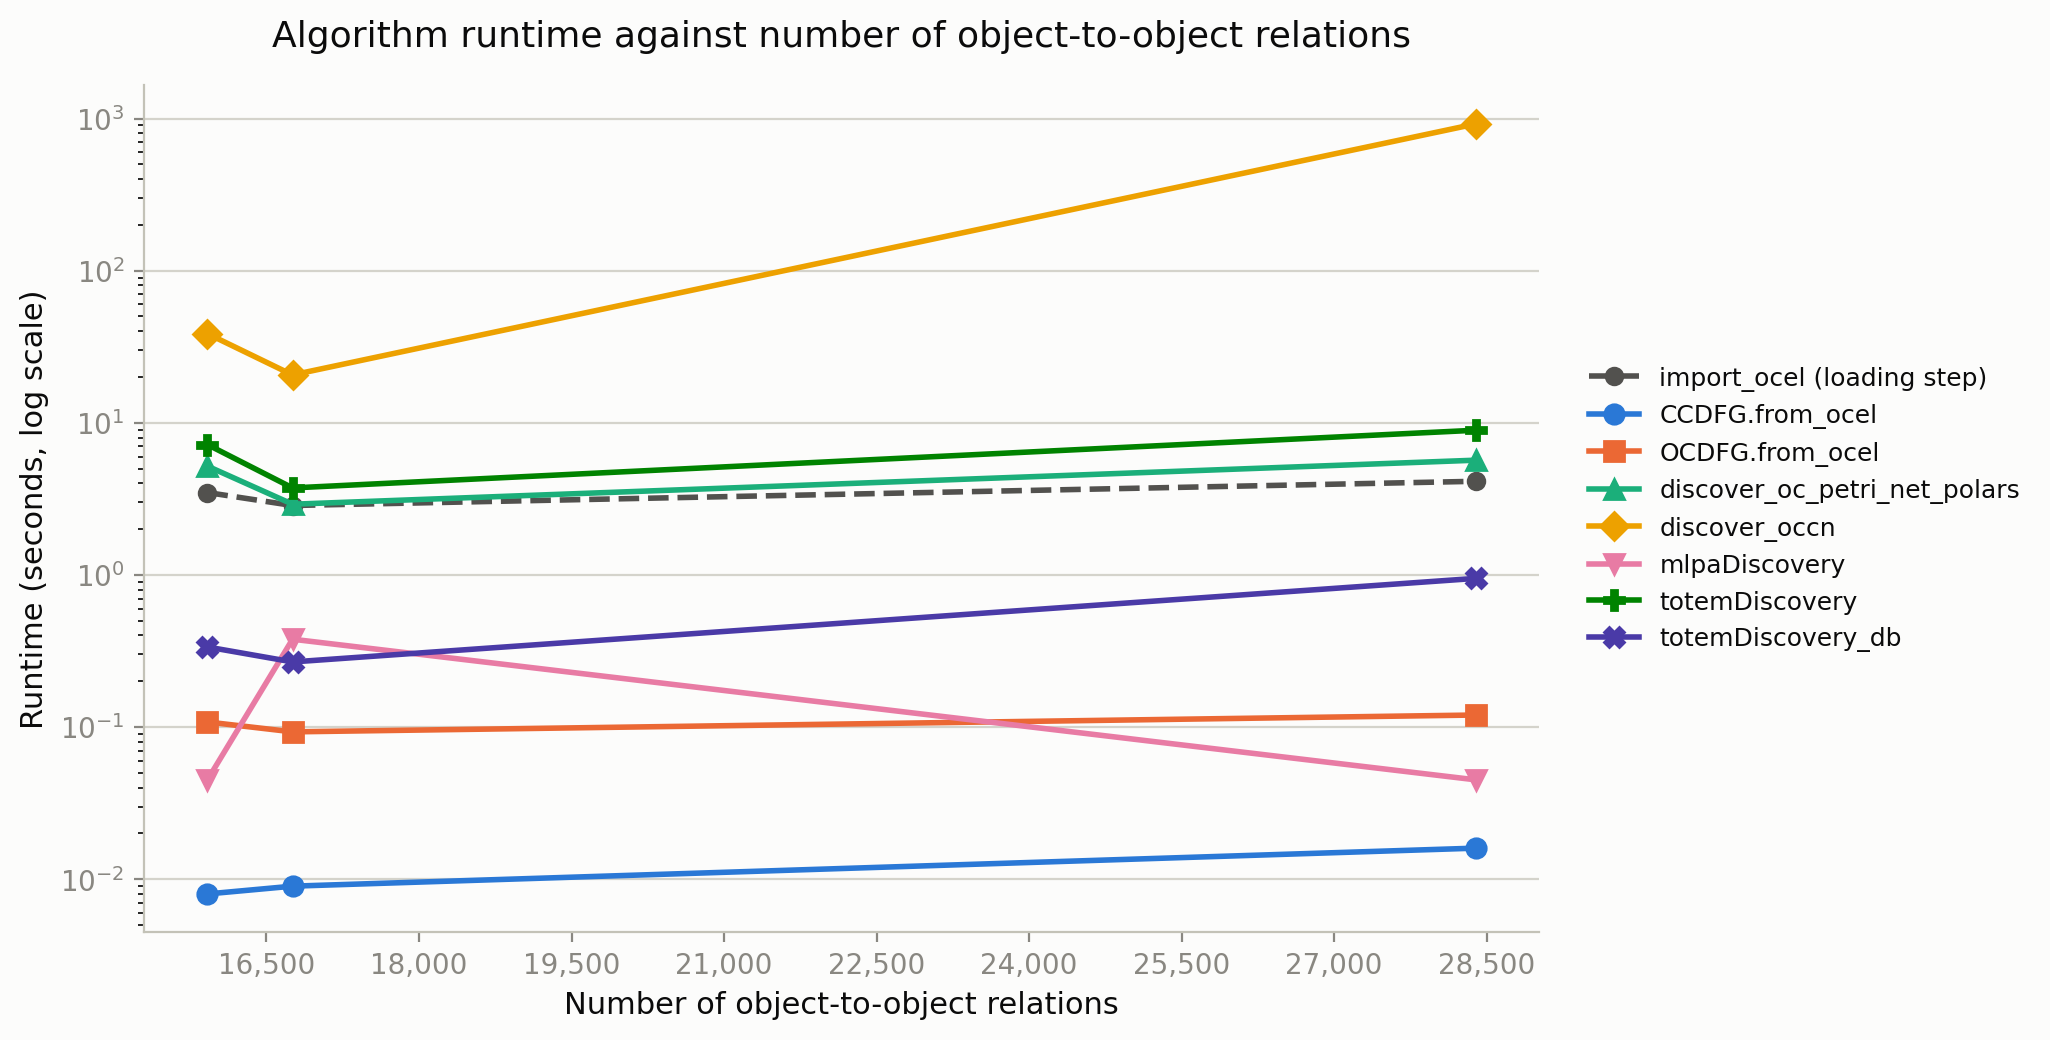
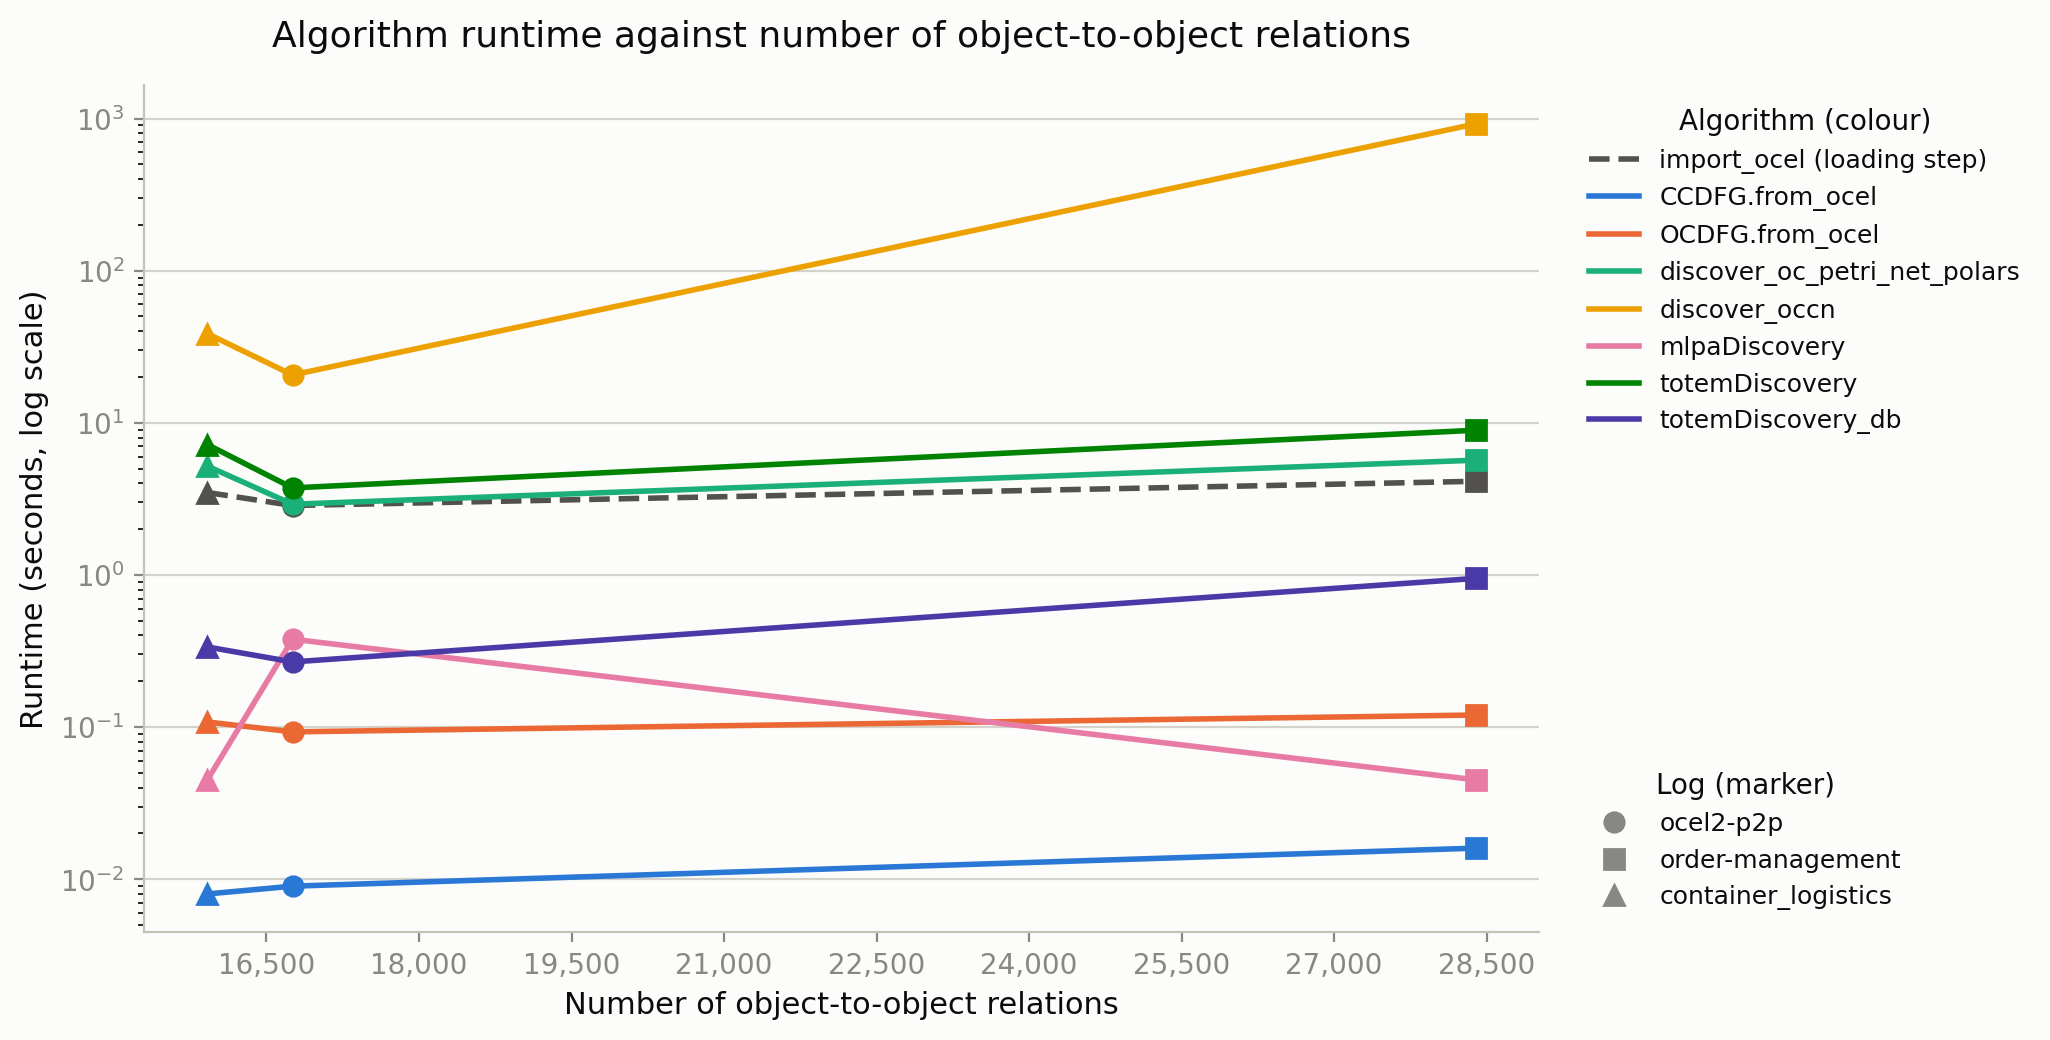
Use colour for the algorithm and marker shape for the log
Line colour already said which algorithm a line belonged to. The marker
shape repeated that, which was wasted. It now says which log each point
came from, so every point carries both facts.

This fixes a case that was unreadable before. In the object-types figure
two logs both have 7 object types, so their points sat on top of each
other with nothing to tell them apart. Now one is a circle and the other
a triangle.

Markers are assigned from the manifest order, the same rule as the
colours, so a log keeps its shape when a run covers only some logs and
two figures never disagree.

Two legends now, one per channel. Both sit outside the axes, and the one
attached by hand has to be named in savefig or the tight bounding box
cuts its text off.

diff --git a/totem_lib/evaluation/plots.py b/totem_lib/evaluation/plots.py
@@ -42,8 +42,9 @@ matplotlib.use("Agg")
 
 import matplotlib.pyplot as plt  # noqa: E402  (must come after use())
 from matplotlib import ticker  # noqa: E402
+from matplotlib.lines import Line2D  # noqa: E402
 
-from evaluation.datasets import SIZE_METRICS, LogStatistics  # noqa: E402
+from evaluation.datasets import LOGS, SIZE_METRICS, LogStatistics  # noqa: E402
 
 FIGURES_DIR = Path(__file__).resolve().parent.parent / "figures"
 FILE_PREFIX = "runtime_vs_"
@@ -128,26 +129,43 @@ def rows_from_csv(path: Path | str) -> list:
 # Shaping the data
 # ---------------------------------------------------------------------------
 
-def series_for(rows: Sequence, metric: str) -> dict[str, list[tuple[int, float]]]:
+def series_for(rows: Sequence, metric: str) -> dict[str, list[tuple[int, float, str]]]:
     """
-    Group the rows into one (x, y) list per algorithm, sorted by x.
+    Group the rows into one (x, y, log) list per algorithm, sorted by x.
+
+    The log name travels with each point because the marker shape identifies which
+    log a point came from.
 
     Rows without a time or without statistics are dropped: a failed algorithm has no
     runtime to plot, and drawing it as zero would be a lie. Sorting matters because the
     logs are not in the same order for every metric.
     """
-    series: dict[str, list[tuple[int, float]]] = {}
+    series: dict[str, list[tuple[int, float, str]]] = {}
     for row in rows:
         if row.statistics is None or row.result.elapsed_s is None:
             continue
-        point = (getattr(row.statistics, metric), row.result.elapsed_s)
+        point = (getattr(row.statistics, metric), row.result.elapsed_s, row.log)
         series.setdefault(row.algorithm, []).append(point)
     return {name: sorted(points) for name, points in series.items()}
 
 
-def _style_for(index: int) -> tuple[str, str]:
-    """Colour and marker for the n-th coloured algorithm."""
-    return SERIES_COLORS[index % len(SERIES_COLORS)], MARKERS[index % len(MARKERS)]
+def _logs_in(series: Mapping, baseline) -> set[str]:
+    """Every log that actually has a point in this figure."""
+    drawn = {log for points in series.values() for _, _, log in points}
+    return drawn | {log for _, _, log in (baseline or [])}
+
+
+def markers_for_logs(rows: Sequence) -> dict[str, str]:
+    """
+    Pick one marker shape per log.
+
+    Logs in the manifest keep the same shape whatever else a run covers, the same way
+    an algorithm keeps its colour. Any other log takes the next free shape.
+    """
+    known = [log.name for log in LOGS]
+    seen = [row.log for row in rows]
+    ordered = known + [name for name in dict.fromkeys(seen) if name not in known]
+    return {name: MARKERS[index % len(MARKERS)] for index, name in enumerate(ordered)}
 
 
 # ---------------------------------------------------------------------------
@@ -168,34 +186,37 @@ def plot_metric(rows: Sequence, metric: str, path: Path) -> Path:
     figure.patch.set_facecolor(SURFACE)
     axes.set_facecolor(SURFACE)
 
+    log_markers = markers_for_logs(rows)
+
+    def draw(points, color, label, linestyle, zorder):
+        """Draw one algorithm: a line in its colour, a marker per log."""
+        axes.plot(
+            [x for x, _, _ in points],
+            [y for _, y, _ in points],
+            color=color,
+            linewidth=2,
+            linestyle=linestyle,
+            label=label,
+            zorder=zorder,
+        )
+        for x, y, log in points:
+            axes.plot(
+                x, y,
+                color=color,
+                marker=log_markers.get(log, "o"),
+                markersize=7,
+                linestyle="none",
+                zorder=zorder + 1,
+            )
+
     # The baseline is drawn first so the coloured lines sit on top of it.
     baseline = series.pop(BASELINE_ALGORITHM, None)
     if baseline:
-        axes.plot(
-            [x for x, _ in baseline],
-            [y for _, y in baseline],
-            color=BASELINE_COLOR,
-            linewidth=2,
-            linestyle="--",
-            marker="o",
-            markersize=6,
-            label=BASELINE_ALGORITHM + " (loading step)",
-            zorder=2,
-        )
+        draw(baseline, BASELINE_COLOR, BASELINE_ALGORITHM + " (loading step)", "--", 2)
 
     for index, name in enumerate(sorted(series)):
-        color, marker = _style_for(index)
-        points = series[name]
-        axes.plot(
-            [x for x, _ in points],
-            [y for _, y in points],
-            color=color,
-            linewidth=2,
-            marker=marker,
-            markersize=7,
-            label=name,
-            zorder=3,
-        )
+        color = SERIES_COLORS[index % len(SERIES_COLORS)]
+        draw(series[name], color, name, "-", 4)
 
     axes.set_yscale("log")
     axes.set_xlabel(SIZE_METRICS[metric], color=TEXT, fontsize=11)
@@ -220,18 +241,47 @@ def plot_metric(rows: Sequence, metric: str, path: Path) -> Path:
     # Thousands separators, to match the results table.
     axes.xaxis.set_major_formatter(ticker.StrMethodFormatter("{x:,.0f}"))
 
-    # Legend outside the plot: nine entries would cover the lines. Skipped when a run
-    # produced nothing to draw, since an empty legend only warns.
-    if axes.get_lines():
-        axes.legend(
-            loc="center left",
-            bbox_to_anchor=(1.02, 0.5),
+    # Two legends outside the plot, one per channel: colour says which algorithm,
+    # marker shape says which log. Skipped when a run produced nothing to draw.
+    legends = []
+    handles, labels = axes.get_legend_handles_labels()
+    if handles:
+        algorithms = axes.legend(
+            handles, labels,
+            title="Algorithm (colour)",
+            loc="upper left",
+            bbox_to_anchor=(1.02, 1.0),
             frameon=False,
             fontsize=9,
             labelcolor=TEXT,
         )
+        algorithms.get_title().set_color(TEXT)
+        axes.add_artist(algorithms)
+        legends.append(algorithms)
 
-    figure.savefig(path, bbox_inches="tight", facecolor=SURFACE)
+        drawn_logs = [name for name in log_markers if name in _logs_in(series, baseline)]
+        log_handles = [
+            Line2D([], [], color=TICKS, marker=log_markers[name], linestyle="none",
+                   markersize=7, label=name)
+            for name in drawn_logs
+        ]
+        if log_handles:
+            logs_legend = axes.legend(
+                handles=log_handles,
+                title="Log (marker)",
+                loc="lower left",
+                bbox_to_anchor=(1.02, 0.0),
+                frameon=False,
+                fontsize=9,
+                labelcolor=TEXT,
+            )
+            logs_legend.get_title().set_color(TEXT)
+            legends.append(logs_legend)
+
+    # Legends sit outside the axes, and one of them is attached by hand, so they have
+    # to be named here or the tight bounding box cuts their text off.
+    figure.savefig(path, bbox_inches="tight", bbox_extra_artists=legends,
+                   facecolor=SURFACE)
     plt.close(figure)
     return path
 

diff --git a/totem_lib/tests/test_plots.py b/totem_lib/tests/test_plots.py
@@ -15,11 +15,12 @@ import pytest
 # No display in CI. Must be set before pyplot is imported anywhere.
 matplotlib.use("Agg")
 
-from evaluation.datasets import SIZE_METRICS, LogStatistics
+from evaluation.datasets import LOGS, SIZE_METRICS, LogStatistics
 from evaluation.export import write_csv
 from evaluation.harness import BenchmarkResult
 from evaluation.plots import (
     FILE_PREFIX,
+    markers_for_logs,
     plot_all,
     plot_metric,
     rows_from_csv,
@@ -84,8 +85,36 @@ def test_series_sorts_by_the_plotted_metric_not_by_row_order():
         _row(log="big-log", statistics=_stats(num_events=100, num_e2o_relations=500)),
         _row(log="small-log", statistics=_stats(num_events=200, num_e2o_relations=50)),
     ]
-    xs = [x for x, _ in series_for(rows, "num_e2o_relations")["works"]]
+    xs = [x for x, _, _ in series_for(rows, "num_e2o_relations")["works"]]
     assert xs == [50, 500]
+
+
+def test_series_keeps_the_log_name_with_each_point():
+    """The marker shape says which log a point came from, so the name must travel."""
+    rows = [_row(log="log-a"), _row(log="log-b", statistics=_stats(num_events=200))]
+    points = series_for(rows, "num_events")["works"]
+    assert [log for _, _, log in points] == ["log-a", "log-b"]
+
+
+# ---------------------------------------------------------------------------
+# markers_for_logs
+# ---------------------------------------------------------------------------
+
+def test_each_log_gets_its_own_marker():
+    markers = markers_for_logs([_row(log="a"), _row(log="b"), _row(log="c")])
+    shapes = [markers["a"], markers["b"], markers["c"]]
+    assert len(set(shapes)) == 3
+
+
+def test_a_manifest_log_keeps_its_marker_when_others_are_missing():
+    """
+    Same rule as the colours: a log's shape must not change just because a run
+    covered fewer logs, or two figures would disagree.
+    """
+    first, second = LOGS[0].name, LOGS[1].name
+    full = markers_for_logs([_row(log=first), _row(log=second)])
+    partial = markers_for_logs([_row(log=second)])
+    assert partial[second] == full[second]
 
 
 def test_series_drops_a_failed_measurement():

diff --git a/totem_lib/README.md b/totem_lib/README.md
@@ -113,9 +113,11 @@ example `--formats md`. Each run overwrites the previous files. The generated JS
 gitignored; the Markdown and CSV are not, so an example run can be committed.
 
 It also saves one plot per size metric to `figures/`, named
-`runtime_vs_<metric>.png`. Runtime is on a log scale because the algorithms differ by
-five orders of magnitude, and `import_ocel` is drawn as a grey dashed baseline because
-it is the loading step the others build on, not a discovery algorithm.
+`runtime_vs_<metric>.png`. Each figure uses two channels: the line **colour** says which algorithm, the
+**marker shape** says which log a point came from. Runtime is on a log scale because the
+algorithms differ by five orders of magnitude, and `import_ocel` is drawn as a grey
+dashed baseline because it is the loading step the others build on, not a discovery
+algorithm.
 
 Reading the same results against different metrics matters. `discover_occn` looks
 erratic against the event count - slowest on the middle-sized log - but rises steadily
